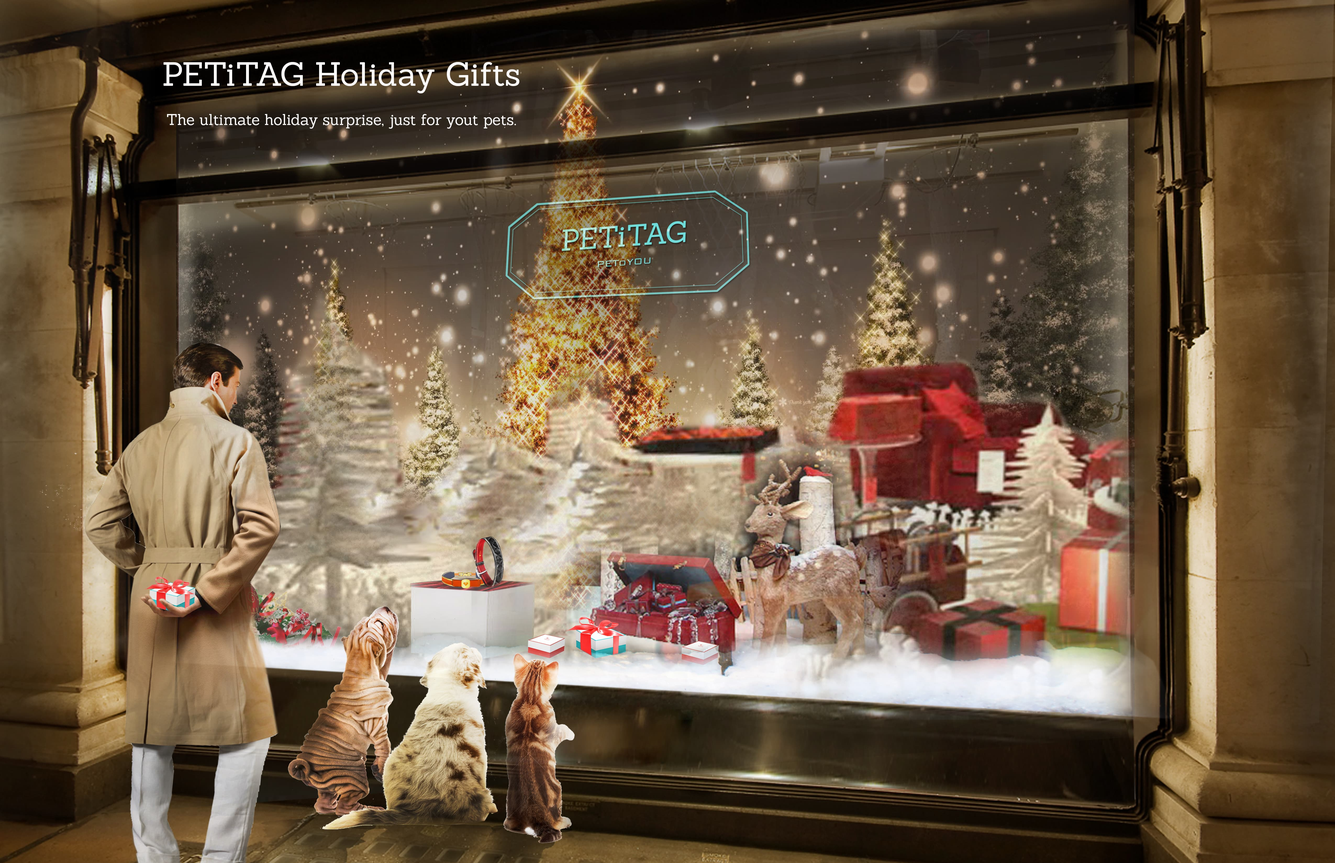
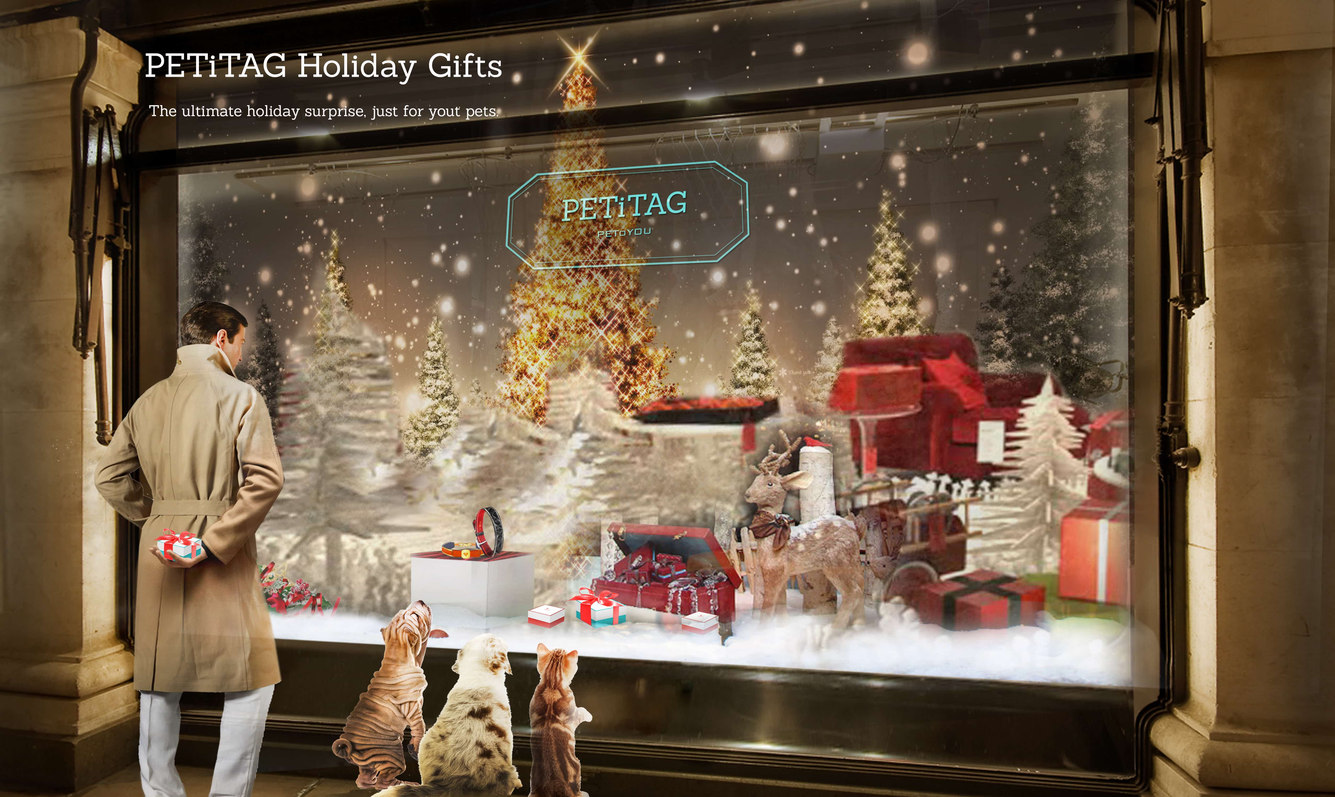
Fix first image issue

diff --git a/landscape.html b/landscape.html
@@ -69,18 +69,21 @@
         </div>
 
         <!-- .......... Home Image .......... -->
-        <div class="uk-clear-fix uk-cover-background uk-height-viewport" style="background-image:url(image/la_0_home.jpg)">
+        <div class="uk-clear-fix uk-cover-background uk-height-viewport" style="background-image:url(image/la_0_home_1.jpg)">
             <!--<img src="image/la_0_home.jpg" alt="">-->
         </div>
         
         <!-- .......... Go Down Arrow .......... -->
         <a href="#resume" class="go-down-arrow bounce" data-uk-smooth-scroll="{offset: 90}"></a>
+            
+        <div style="height:20px">
+        </div>
         
         <!-- .......... 1 .......... -->
         <div class="uk-slidenav-position" data-uk-slideshow id="resume">
             <ul class="uk-slideshow uk-slider-full-screen uk-grid-width-medium-1-1 uk-grid-width-large-1-1">
                 <li class="uk-active uk-vertical-align uk-text-center">
-                    <img src="image/la_0_home_1.jpg" class="uk-vertical-align-center">
+                    <img src="image/la_0_home.jpg" class="uk-vertical-align-center">
                 </li>
             </ul>
         </div>

diff --git a/catrait.html b/catrait.html
@@ -190,6 +190,9 @@
             </ul>
         </div>
             
+        <div style="height:20px">
+        </div>
+            
         <div class="uk-slidenav-position" data-uk-slideshow>
             <ul class="uk-slideshow uk-slider-full-screen uk-grid-width-medium-1-1 uk-grid-width-large-1-1">
                 <li class="uk-active uk-vertical-align uk-text-center">

diff --git a/petoyou.html b/petoyou.html
@@ -101,6 +101,10 @@
                 </li>
             </ul>
         </div>
+            
+        <!-- ......... White stipe ........-->
+        <div style="height:10px">
+        </div>
         
         <!-- .......... Box .......... -->
         <div class="uk-slidenav-position" data-uk-slideshow>

diff --git a/css/logo.css b/css/logo.css
@@ -376,9 +376,11 @@ header{
 	/*color: transparent;*/
 }
 .ss-paragraph-text .ss-form-entry{
+    border-radius: 5px;
 	margin-right: 0px;
+    margin-top:30px;
     background-color: #fff;
     border-color: #ddd;
-    border-width: 0.5;
+    border-width: 1px;
     border-style: solid;
 }
